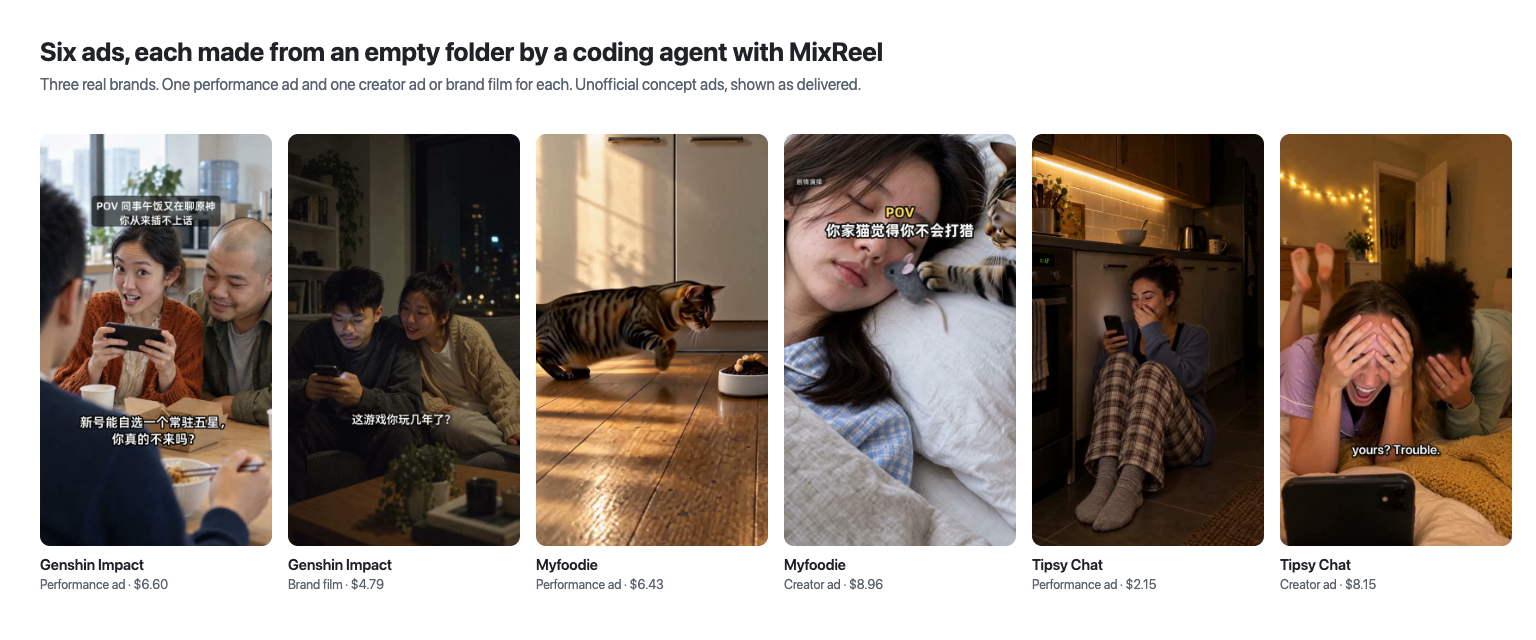
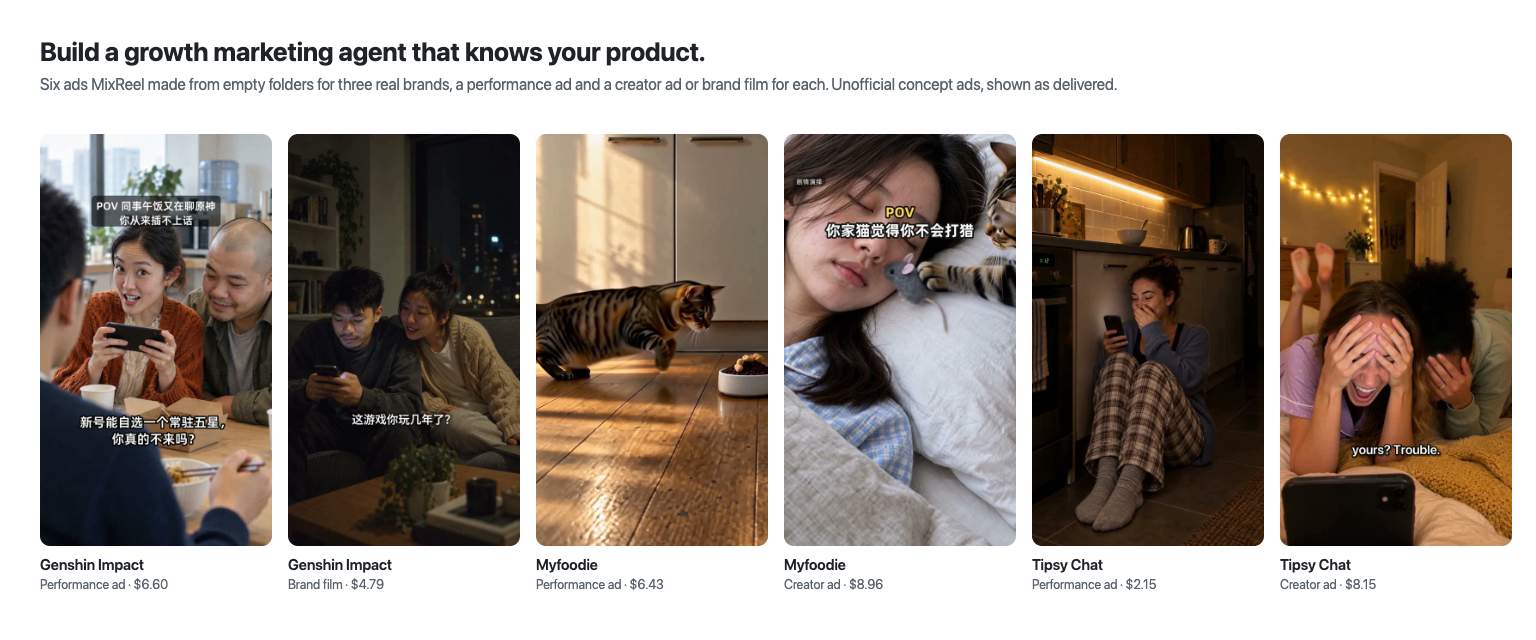
Lead the README with the new slogan and description
Both READMEs now open with "Build a growth marketing agent that knows
your product" and a short description of how MixReel works: it guides
you to build a marketing knowledge base, searches for relevant
competitors and winning ads, brainstorms scripts, and blocks shots in
Blender before generating. The hero image carries the same line.

Changed region(s): [[0.0312, 0.0625, 0.7188, 0.1562]]

diff --git a/README.md b/README.md
@@ -1,8 +1,10 @@
 # MixReel
 
+<h3 align="center">Build a growth marketing agent that knows your product.</h3>
+
 <p align="center"><a href="#showcase"><b>Showcase</b></a> &nbsp;&bull;&nbsp; <a href="#quickstart"><b>Quickstart</b></a> &nbsp;&bull;&nbsp; <a href="docs/getting-started.md"><b>Getting started</b></a> &nbsp;&bull;&nbsp; <a href="README.zh-CN.md"><b>简体中文</b></a></p>
 
-Block the shot in 3D before you pay for a generation. Then let the cut tell you when a frame flashed, a cut landed late, or the package stopped matching the real product.
+We don't believe in one-click cloning or one-click generation. A viral structure can be borrowed, yet every product has its own selling point and audience. MixReel walks you through building your product's marketing knowledge base. It turns your product facts and marketing assets into something an agent can read, and searches for the competitors and winning ads that matter to you. From there it brainstorms scripts with you, blocks every shot in a Blender 3D director's board, and only then generates the film. Starting from an empty folder, its first films already hold up. The more complete the knowledge base, the better it knows your product, and the better the films get.
 
 MixReel is an open-source agent skill for **ad, e-commerce, and product short videos**. It runs locally. You bring the model, on that vendor's own API, with your own key. This repository does not host a relay and does not lock you to one model.
 

diff --git a/README.zh-CN.md b/README.zh-CN.md
@@ -1,8 +1,10 @@
 # MixReel
 
+<h3 align="center">搭建一个懂你产品的增长营销 Agent</h3>
+
 <p align="center"><a href="#案例"><b>案例</b></a> &nbsp;&bull;&nbsp; <a href="#快速开始"><b>快速开始</b></a> &nbsp;&bull;&nbsp; <a href="docs/getting-started.md"><b>入门说明</b></a> &nbsp;&bull;&nbsp; <a href="README.md"><b>English</b></a></p>
 
-先在三维里把镜头摆对，再花钱生成。成片自己会标出闪帧、切晚了的剪辑点，以及包装和真实商品对不上的地方。
+我们不认同一键复制、一键生成的做法。爆款的结构可以借鉴，每个产品的卖点和受众却各不相同。MixReel 会一步步引导你搭建产品的营销资料库，把产品信息和营销素材整理成 Agent 能读懂的形式，并检索与你相关的竞品动态和爆款素材。在此基础上，它和你一起脑暴营销脚本，先用 Blender 3D 导演台排好镜头，再生成成片。从一个空文件夹起步，它做出的片子已有不错的水准；资料库越完整，它越懂你的产品，出片也越好。
 
 MixReel 是开源项目：面向**广告、电商和产品短视频**的 agent skill。它在你的机器上运行。模型用你自己的账号，走该厂商的官方 API。这个仓库不提供中转，也不把你绑在某一个模型上。
 
